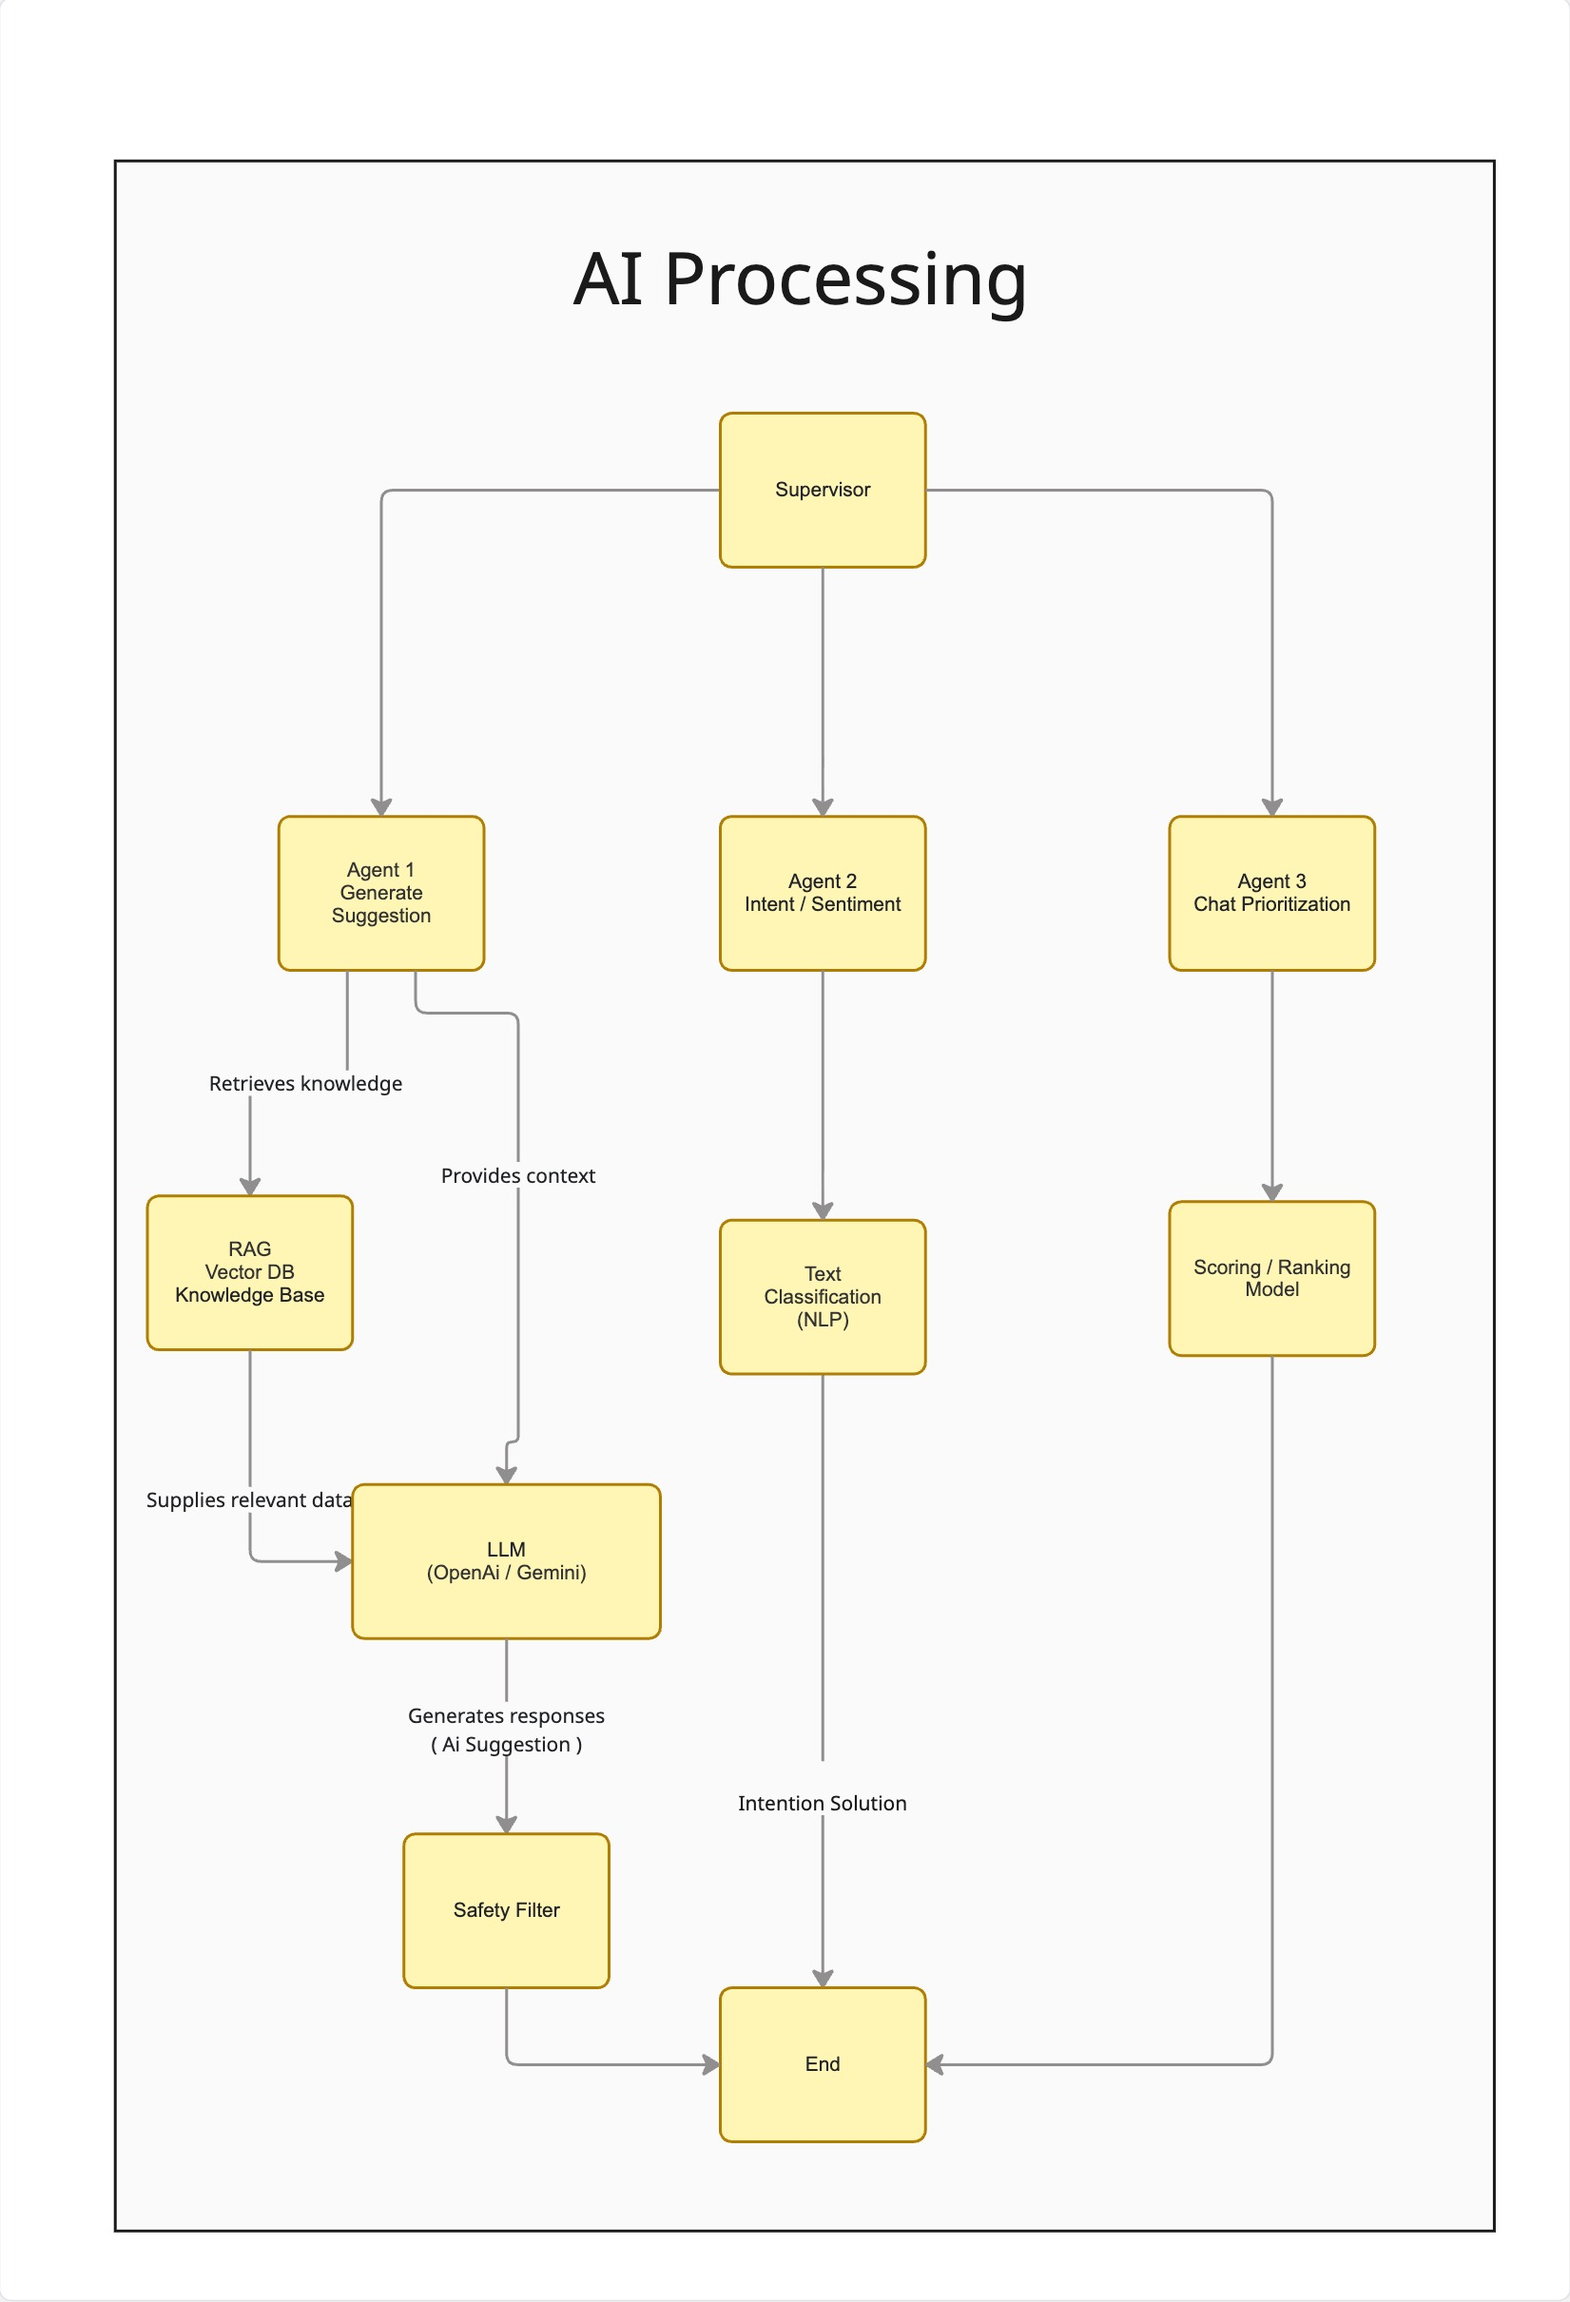
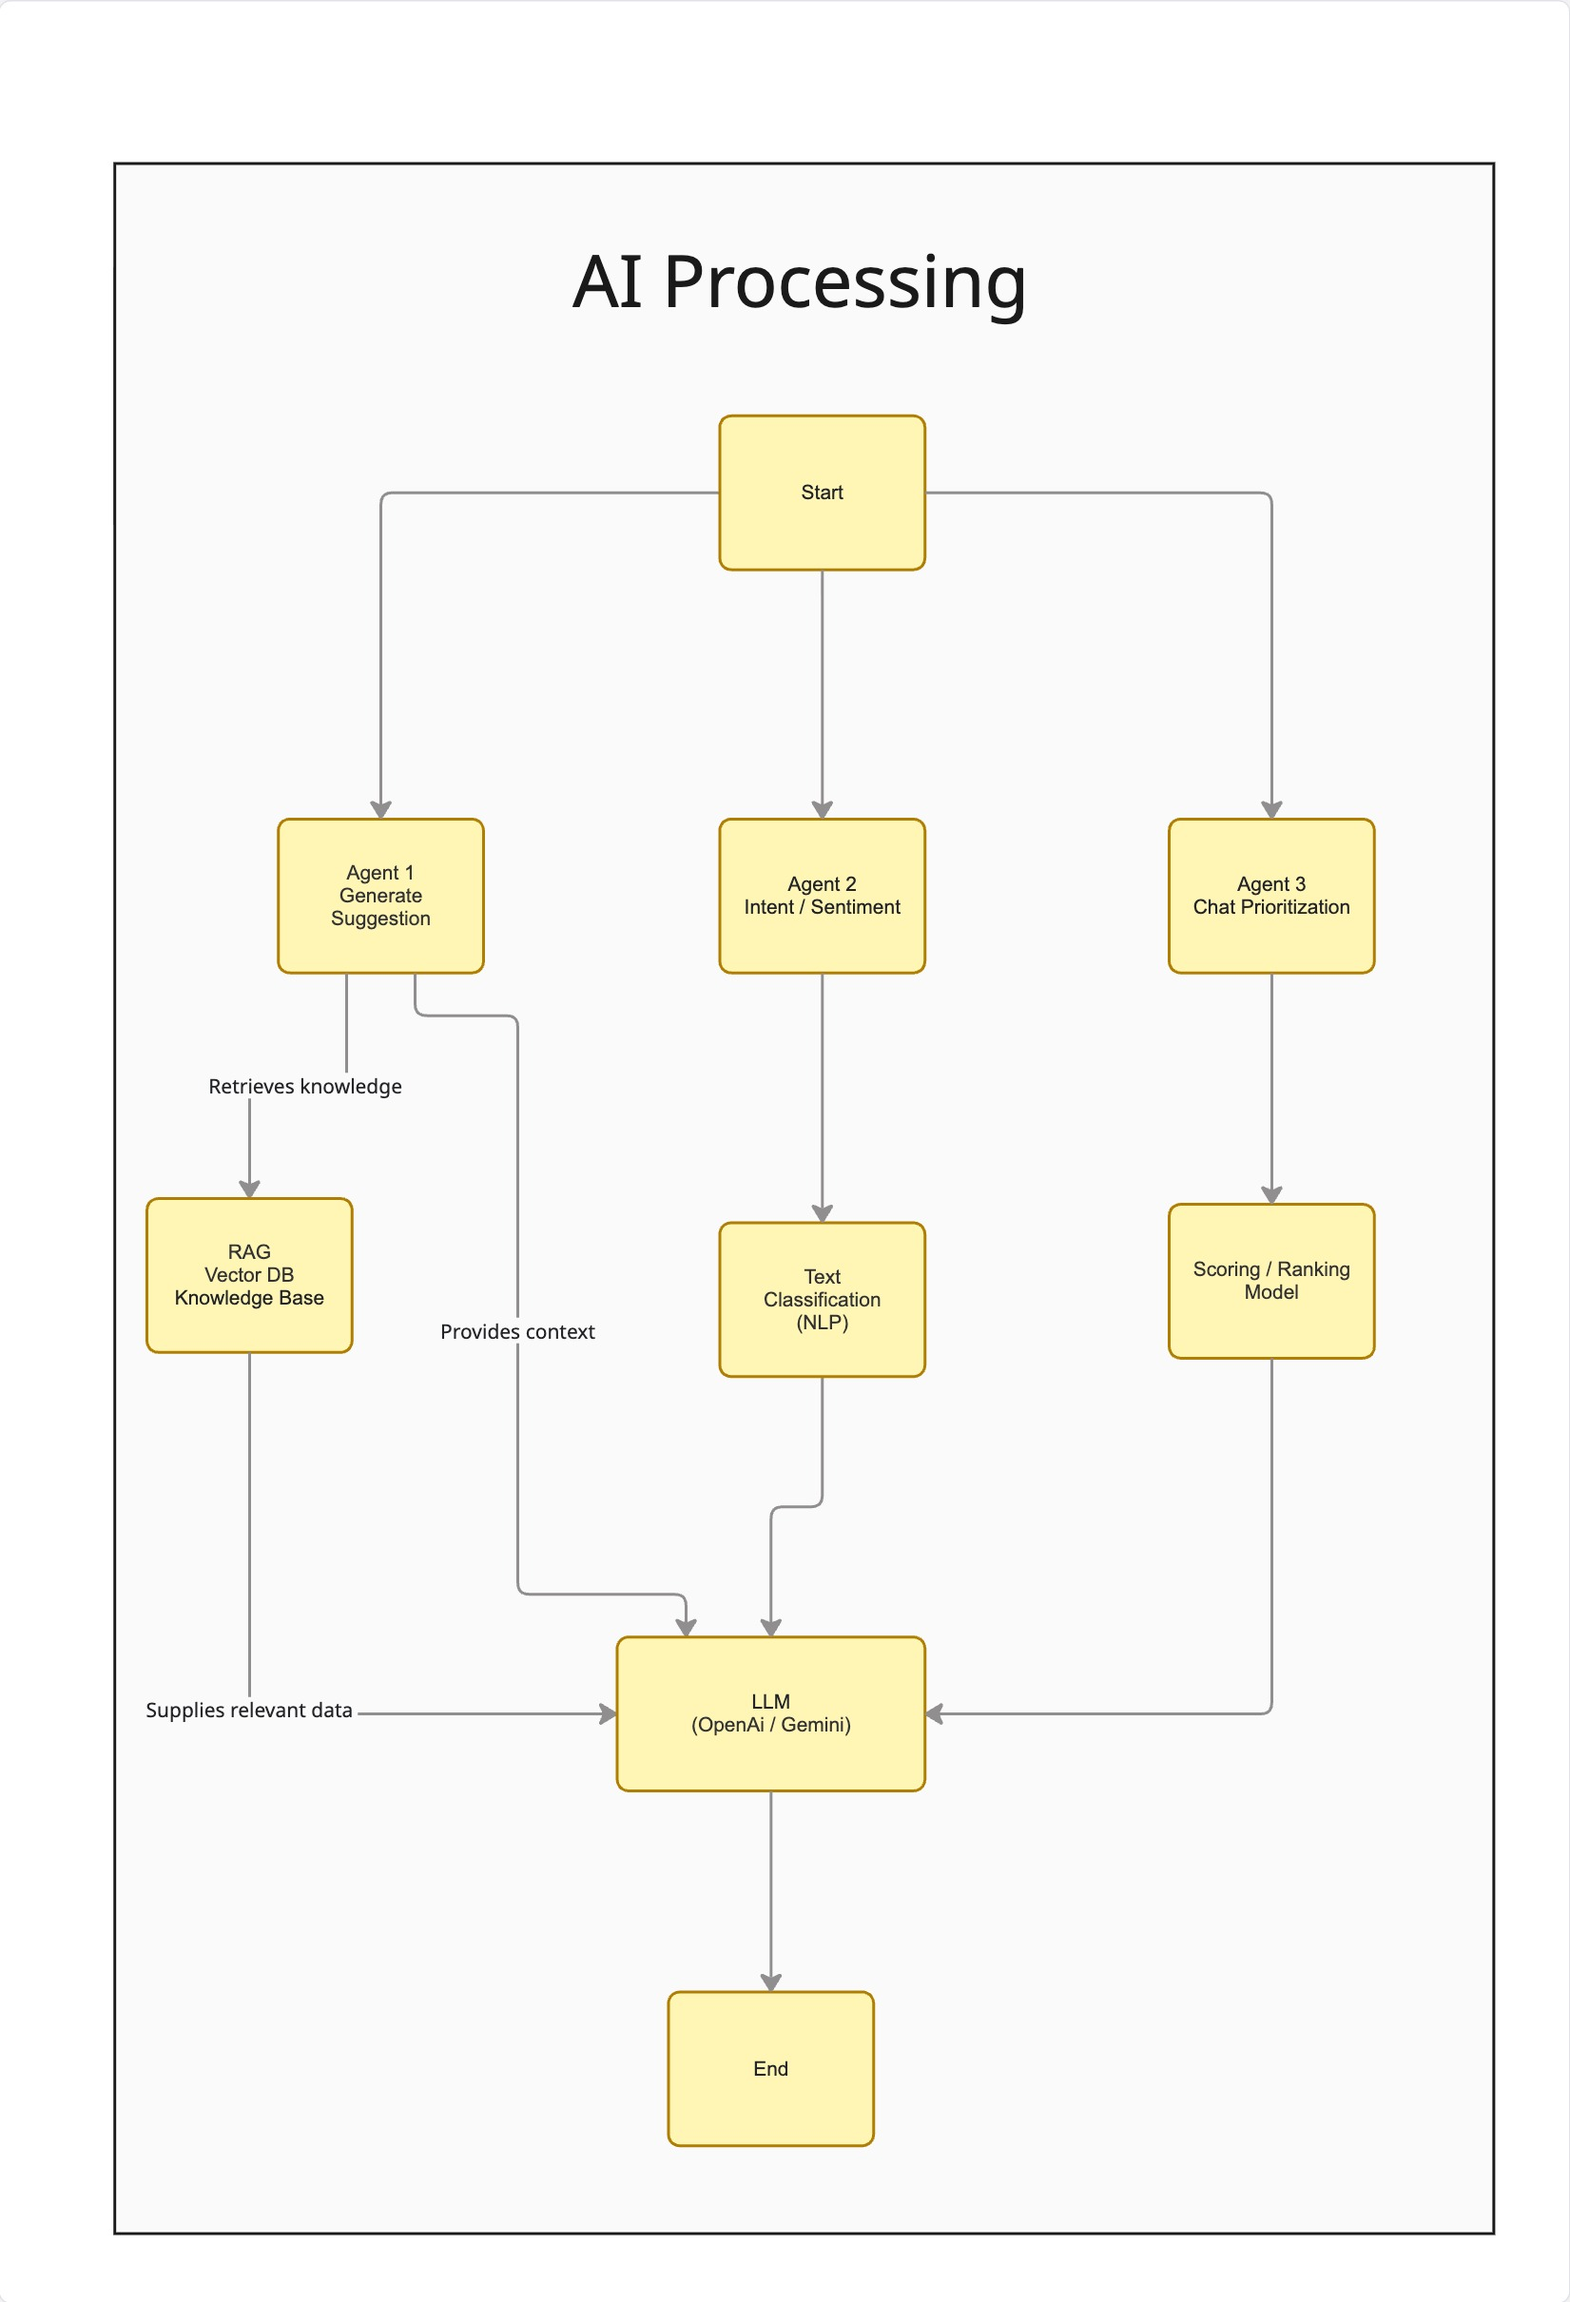
Update the Ai system with new achitecture

diff --git a/README.md b/README.md
@@ -91,35 +91,45 @@ This diagram illustrates the AI processing layer used in the Unified Inbox to en
 
 ![enter image description here](https://raw.githubusercontent.com/lmadhuranga/Todo-App-Koa-NextJs-MongoDb-Typescript/refs/heads/main/ai-system.jpg)
 
-The **Supervisor** acts as the central orchestration component.  
-It receives incoming customer messages and coordinates multiple AI agents to process the message concurrently. 
+This diagram represents a Supervisor–Agent based AI processing architecture where multiple AI agents work in parallel and feed a central LLM to produce intelligent outcomes.
 
-**Agent 1: AI Reply Generation:** Generate context-aware reply suggestions for operators.
+### **Agent 1: AI Reply Generation**
 
-Flow:
-1. Retrieves relevant information from the **RAG Vector Database / Knowledge Base**
-2. Provides contextual data to the LLM
-3. Invokes the **LLM (OpenAI / Gemini)** to generate response suggestions
-4. Passes generated responses through a **Safety Filter**
-5. Outputs safe AI suggestions for operator review
+Generates context-aware reply suggestions for operators.
+**Flow:**
+1.  Retrieves relevant information from the **RAG Vector Database / Knowledge Base**
+2.  Supplies relevant data and contextual grounding to the LLM
+3.  Invokes the **LLM (OpenAI / Gemini)** to generate response suggestions    
+4.  Outputs safe, context-aware reply suggestions for operator review
+----------
 
-**Agent 2: Intent & Sentiment Detection:** Understand the customer’s intent and emotional tone.
+### **Agent 2: Intent & Sentiment Detection**
+Understands the customer’s intent and emotional tone
+**Flow:**
+1.  Processes the incoming message using **NLP-based text classification**  
+2.  Detects intent (e.g., inquiry, complaint, follow-up)
+3.  Identifies sentiment (positive, neutral, negative)
+4.  Sends structured intent and sentiment signals to the LLM to guide response tone and handling
+----------
 
-Flow:
-1. Processes message text using **NLP-based text classification**
-2. Detects intent (e.g., complaint, inquiry, follow-up)
-3. Identifies sentiment (e.g., positive, neutral, negative)
- 
-**Agent 3: Chat Prioritization:** Determine which conversations require immediate attention.
+### **Agent 3: Chat Prioritization**
+Determines which conversations require immediate attention.
+**Flow:**
+1.  Applies a **scoring / ranking model**
+2.  Considers factors such as:
+    -   Identified intent
+    -   Message urgency  
+3.  Produces a priority score that is fed into the LLM for informed decision-making
 
-Flow:
-1. Uses a **scoring / ranking model**
-2. Considers factors such as: 
-   - Identified intent
-   - Message urgency 
-3. Produces a priority score for the conversation 
-  
-The Supervisor–Agent pattern ensures the system remains extensible as new AI features are introduced.
+----------
+
+### **Central LLM (OpenAI / Gemini)**
+The LLM acts as the **fusion layer**, combining:
+-   Retrieved knowledge from RAG
+-   Intent and sentiment insights
+-   Conversation priority signals
+It generates final AI-assisted outputs aligned with context, emotion, and urgency.
+
 
 
 ## Unified Inbox ↔ AI Processing Connector (Worker Module)
